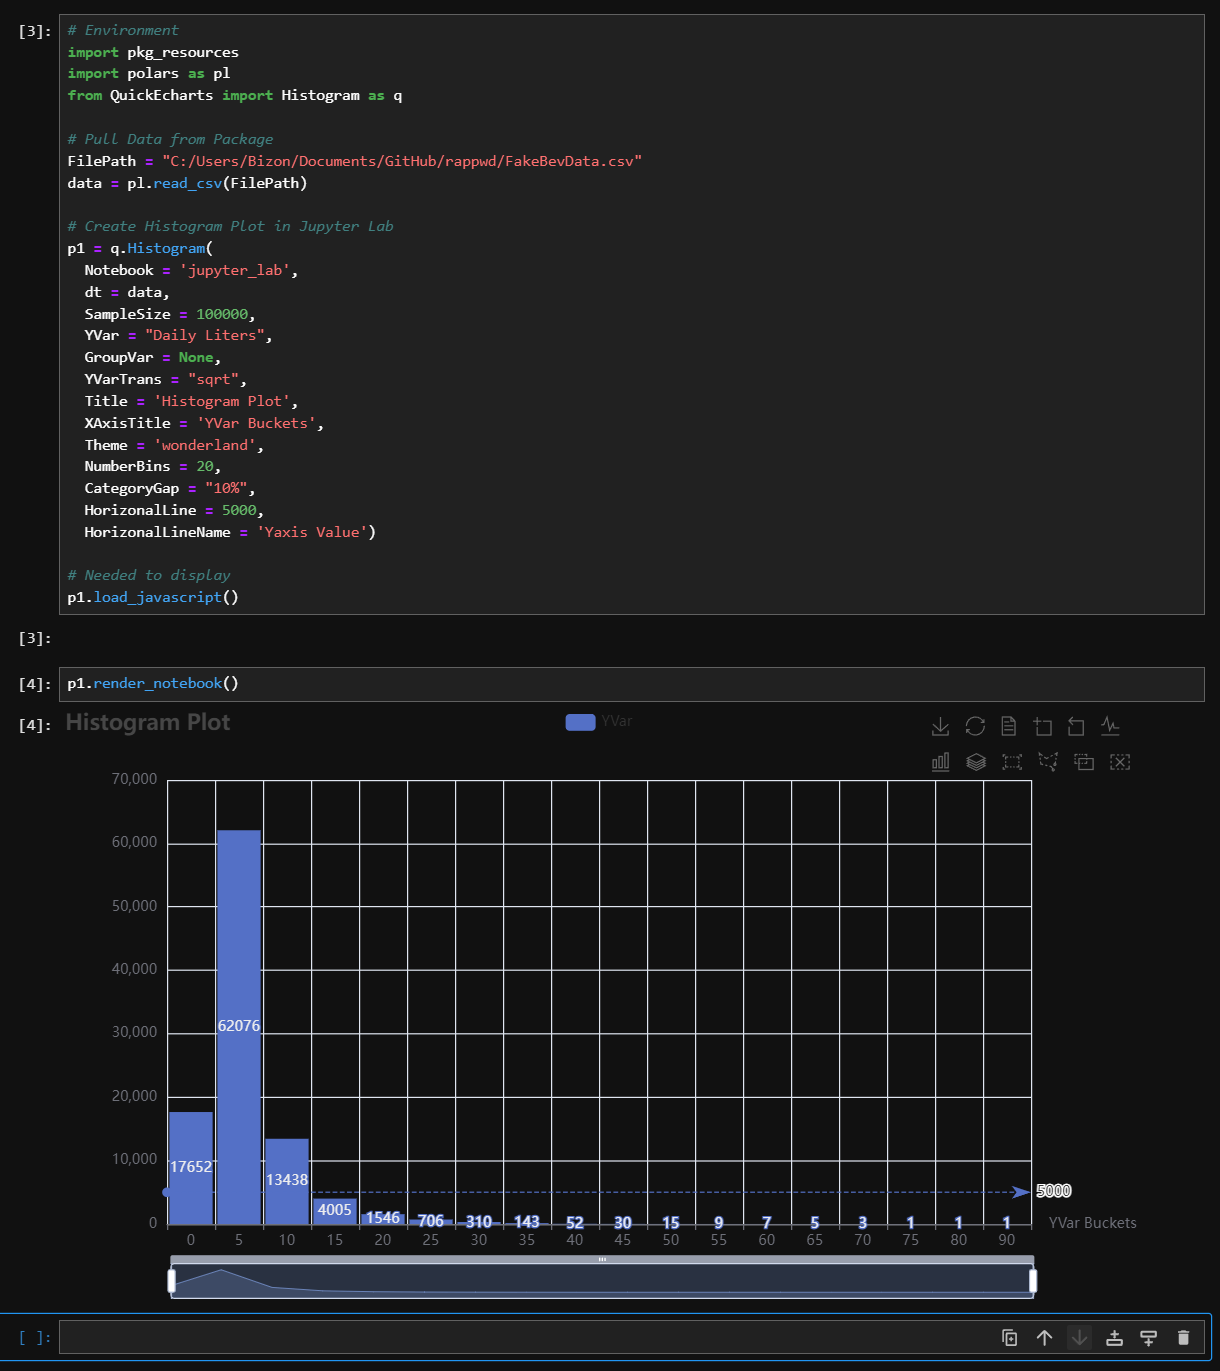
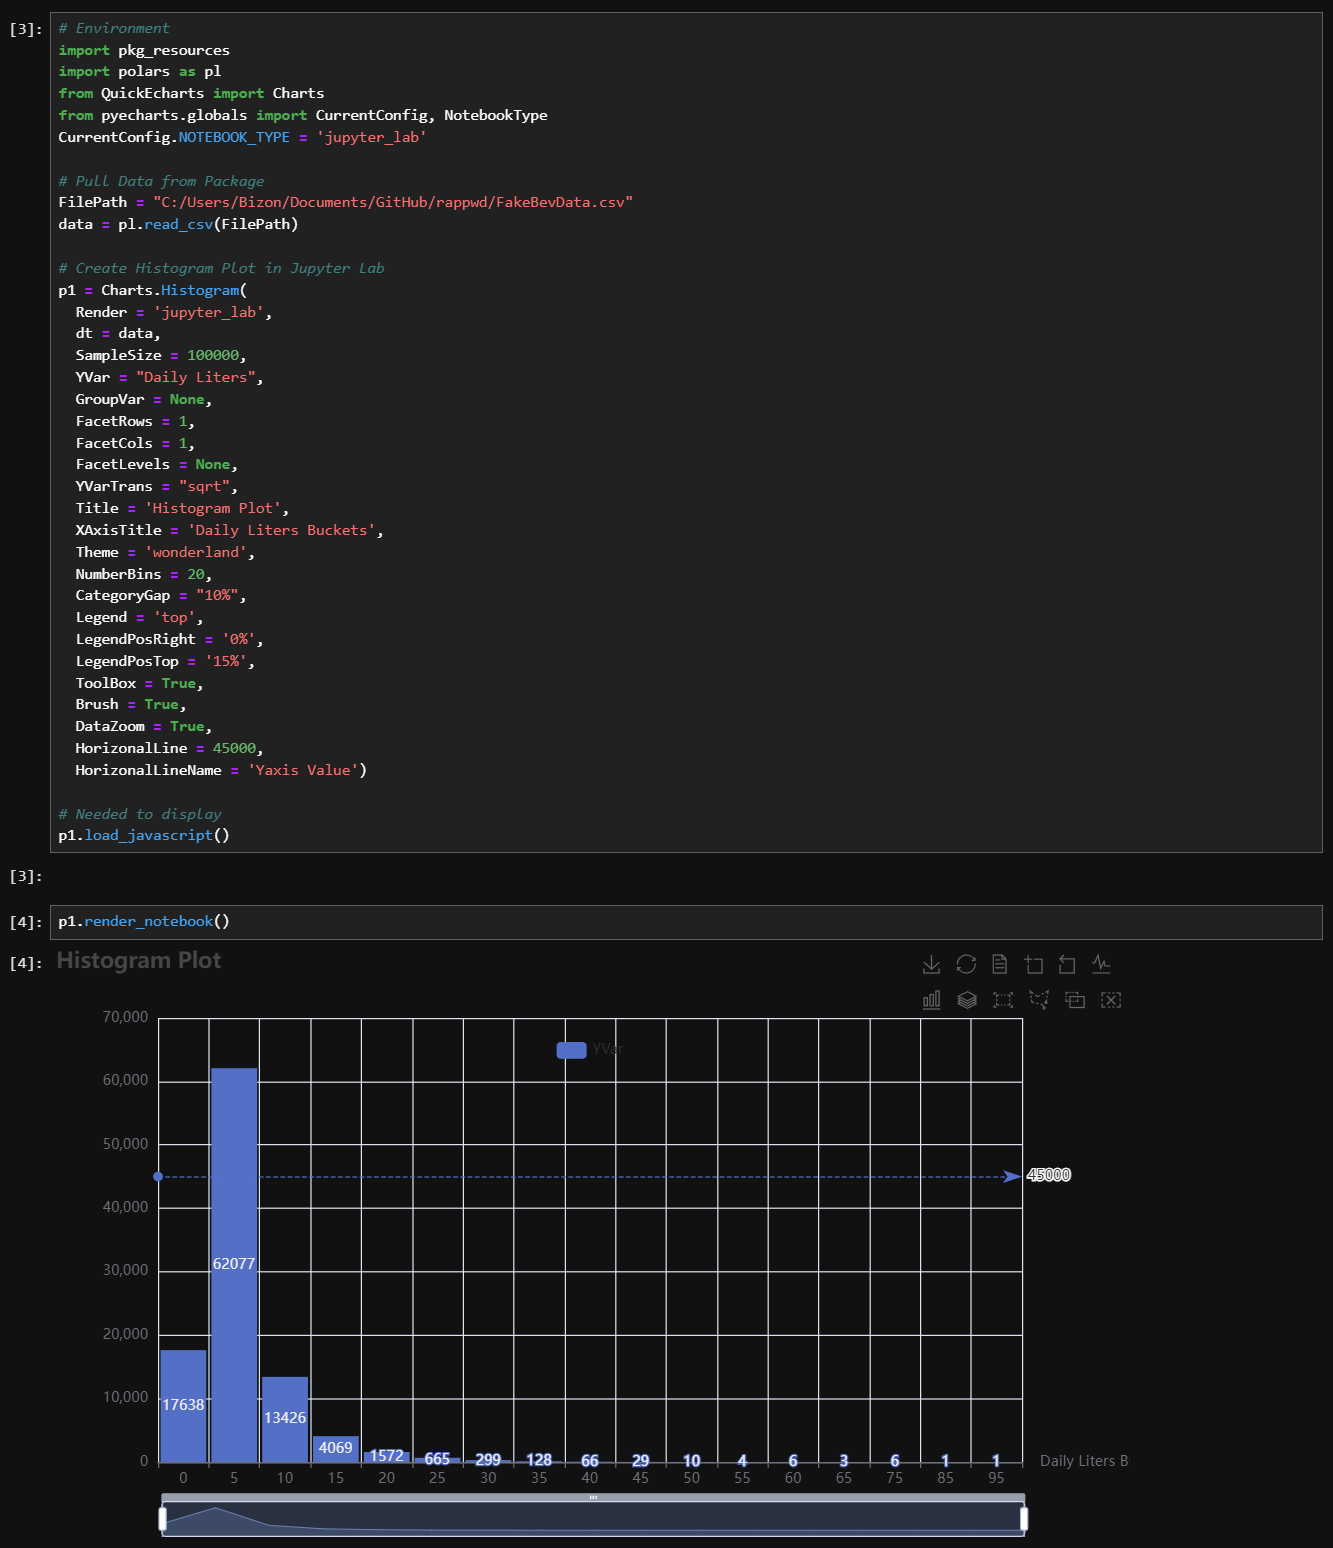
Updates

diff --git a/README.md b/README.md
@@ -12,7 +12,7 @@ pip install git+https://github.com/AdrianAntico/QuickEcharts.git#egg=quickechart
 ```
 
 
-### Histograms
+### Histogram
 
 ```python
 # Environment
@@ -60,3 +60,53 @@ p1.render_notebook()
 
 #### Jupyter Lab View
 <img src="https://github.com/AdrianAntico/QuickEcharts/blob/main/QuickEcharts/Images/Histogram.PNG" align="center" width="800" />
+
+
+### Histogram Facet
+
+```python
+# Environment
+import pkg_resources
+import polars as pl
+from QuickEcharts import Charts
+from pyecharts.globals import CurrentConfig, NotebookType 
+CurrentConfig.NOTEBOOK_TYPE = 'jupyter_lab'
+
+# Pull Data from Package
+FilePath = pkg_resources.resource_filename('QuickEcharts', 'datasets/FakeBevData.csv')
+data = pl.read_csv(FilePath)
+
+# Create Histogram Plot in Jupyter Lab
+p1 = Charts.Histogram(
+  Notebook = 'jupyter_lab',
+  dt = data,
+  SampleSize = 100000,
+  YVar = "Daily Liters",
+  GroupVar = 'Brand',
+  FacetRows = 2,
+  FacetCols = 2,
+  FacetLevels = None,
+  YVarTrans = "sqrt",
+  Title = 'Histogram Plot',
+  XAxisTitle = 'Daily Liters Buckets',
+  Theme = 'wonderland',
+  NumberBins = 20,
+  CategoryGap = "10%",
+  Legend = None,
+  LegendPosRight = '0%',
+  LegendPosTop = '5%',
+  ToolBox = True,
+  Brush = True,
+  DataZoom = True,
+  HorizonalLine = 500,
+  HorizonalLineName = 'Yaxis Value')
+
+# Needed to display
+p1.load_javascript()
+
+# In a new cell
+p1.render_notebook()
+```
+
+#### Jupyter Lab View
+<img src="https://github.com/AdrianAntico/QuickEcharts/blob/main/QuickEcharts/Images/Histogram_Facet.PNG" align="center" width="800" />
